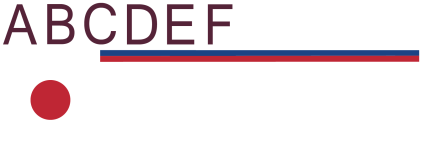
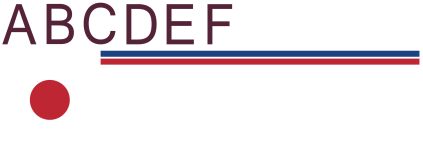
Fix arms 1

diff --git a/core/src/com/colim/anglexplore/utils/AssetLoaderGame.java b/core/src/com/colim/anglexplore/utils/AssetLoaderGame.java
@@ -25,8 +25,8 @@ public class AssetLoaderGame {
         texturesGame.setFilter(Texture.TextureFilter.Nearest, Texture.TextureFilter.Nearest);
         vertex = new TextureRegion(texturesGame, 0, 50, 99, 100);
 
-        arm = new TextureRegion(texturesGame, 100, 56, 175, 6);
-        highlightArm = new TextureRegion(texturesGame, 100, 50, 175, 6);
+        arm = new TextureRegion(texturesGame, 101, 58, 175, 8);
+        highlightArm = new TextureRegion(texturesGame, 101, 50, 175, 8);
         vertex.getTexture().setFilter(Texture.TextureFilter.Linear, Texture.TextureFilter.Nearest);
         arm.getTexture().setFilter(Texture.TextureFilter.Linear, Texture.TextureFilter.Nearest);
         highlightArm.getTexture().setFilter(Texture.TextureFilter.Linear, Texture.TextureFilter.Nearest);
